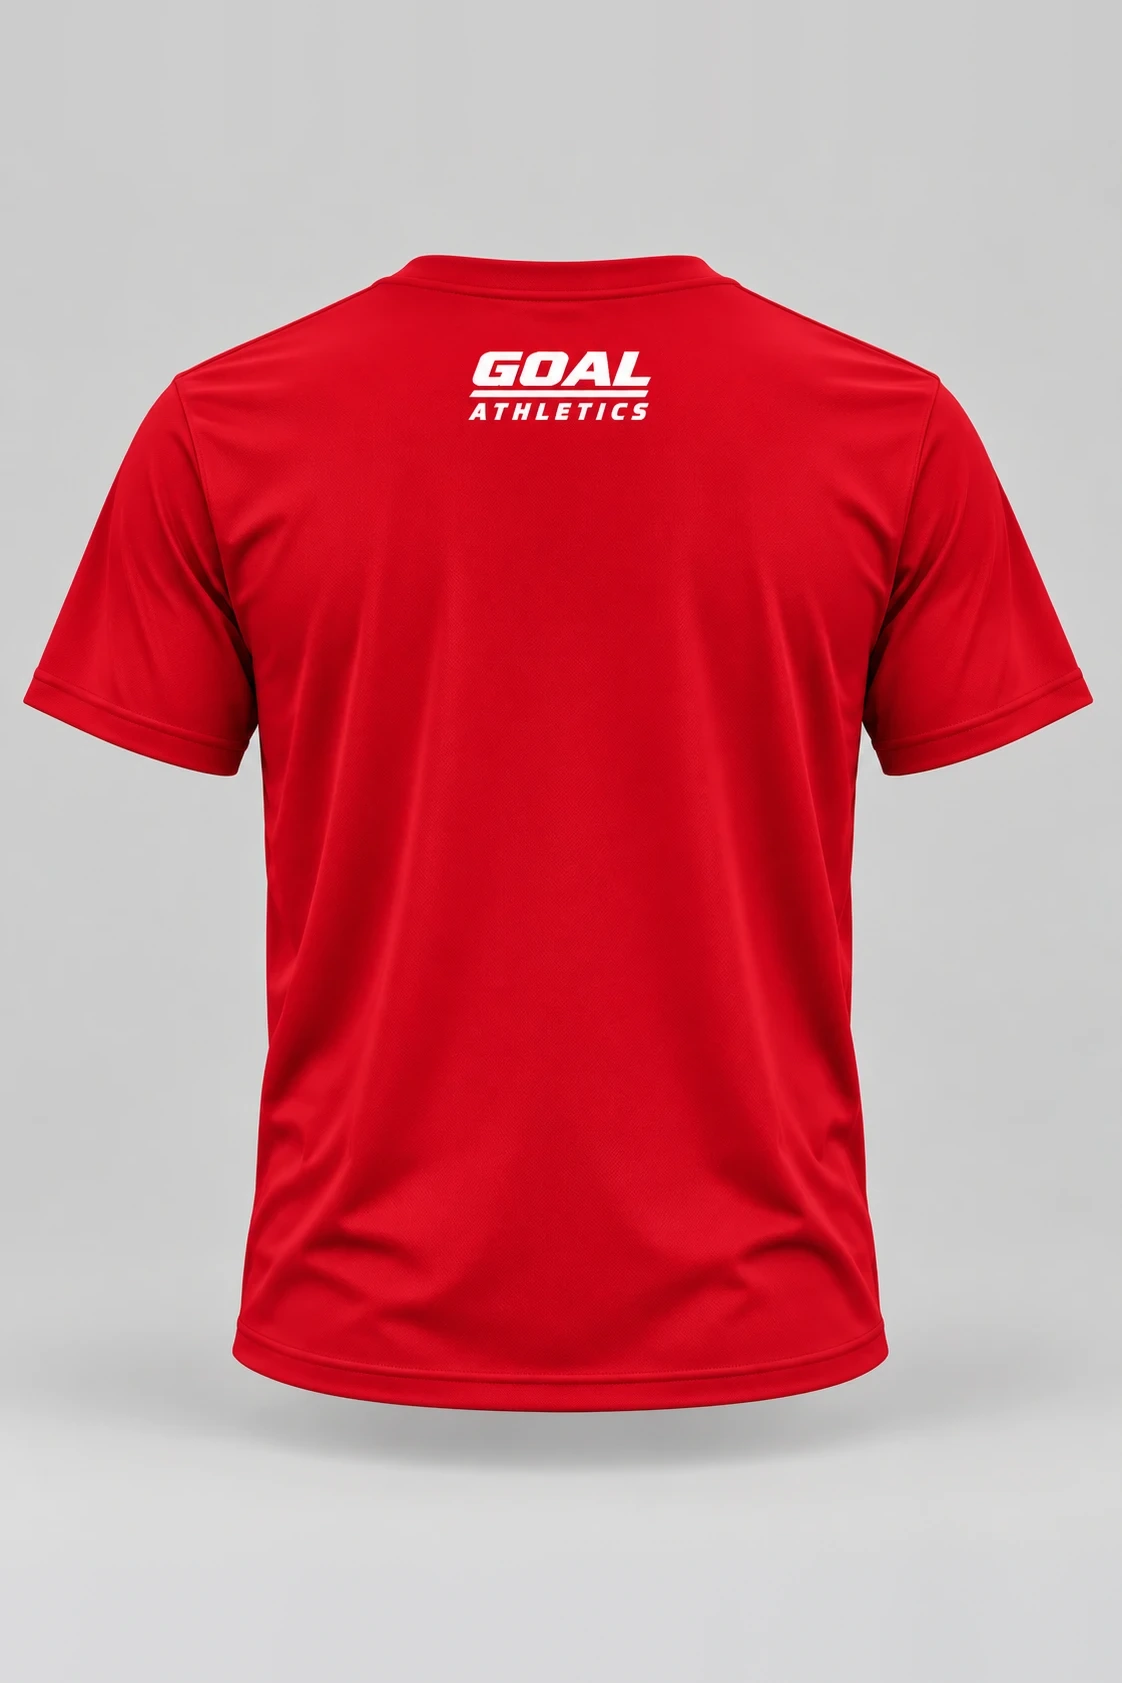
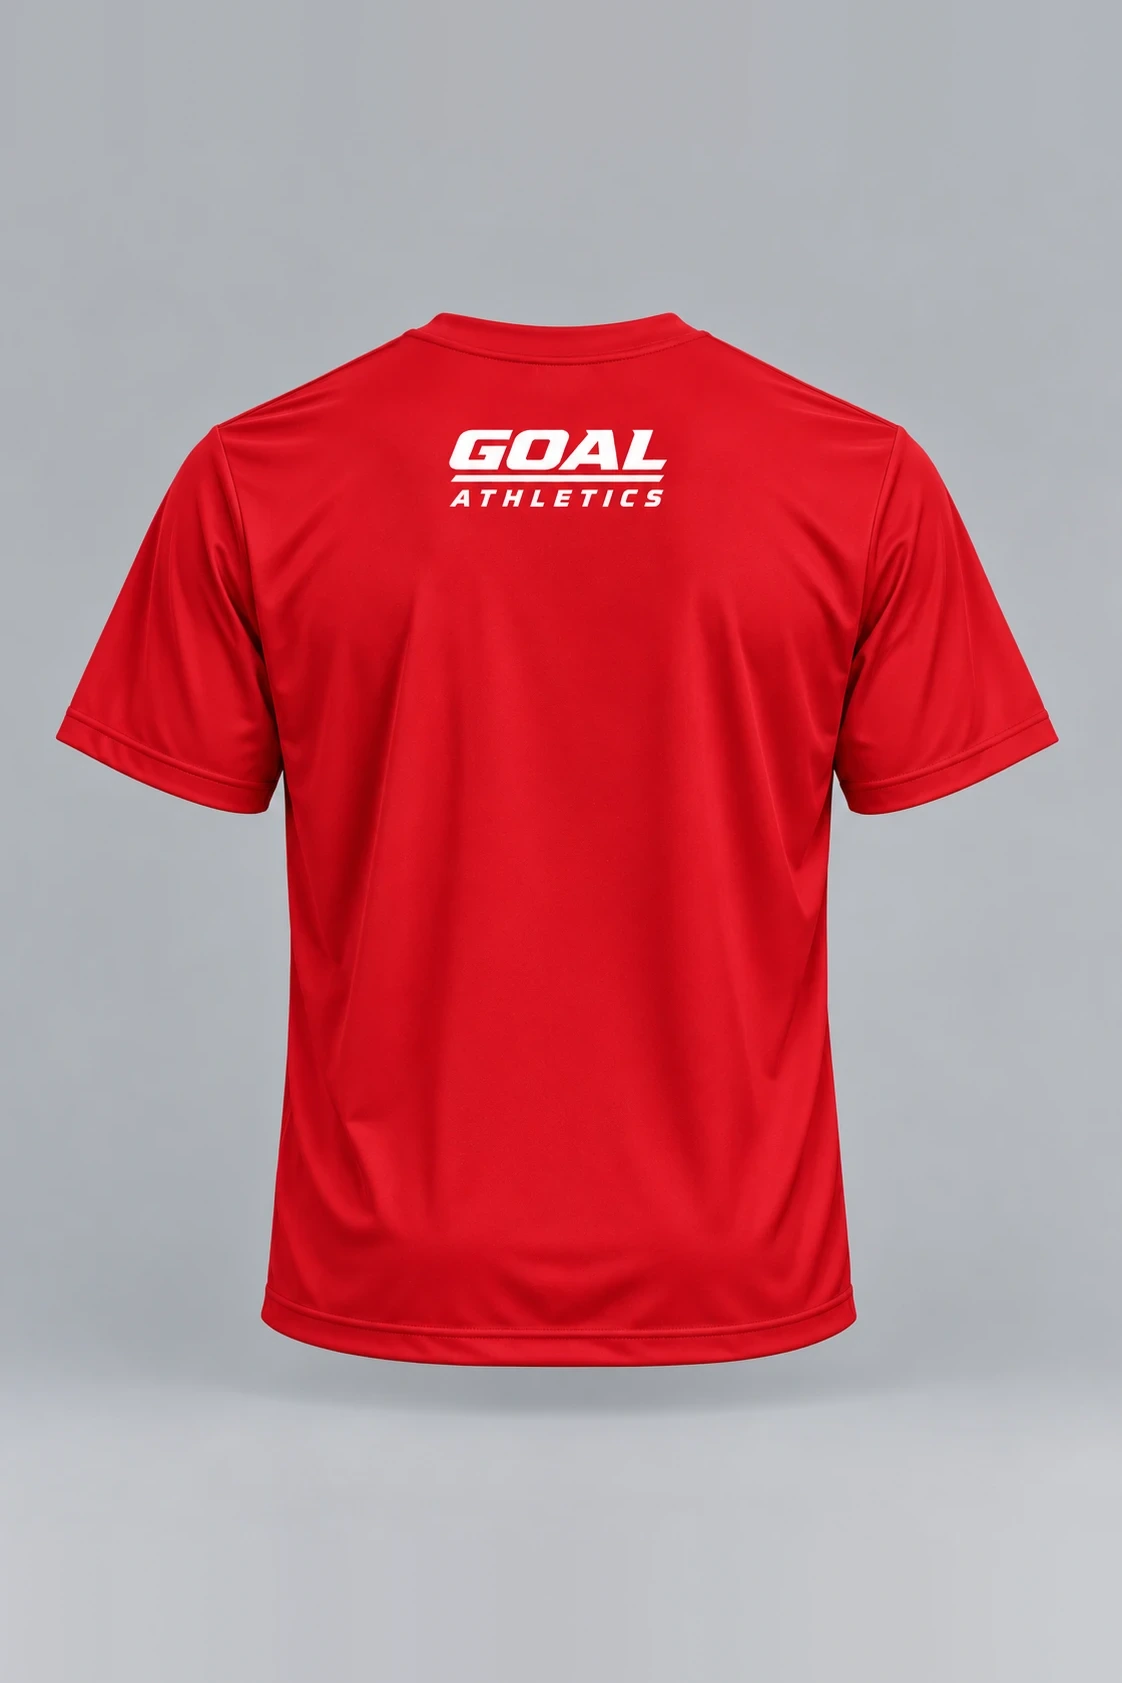
Replace the True Red GA Minimal Tee product back
Owner instruction on 2026-10-22, after the first set had gone live: the
first 1122 x 1402 back gives way to another 1122 x 1402 shot on a
slightly cooler grey, framed the same way (backdrop extended 140/141 px
above and below to 2:3, joins 0.00 and 0.03). The first original is kept
in the designs record as SUPERSEDED; checksums updated in docs/catalog/
ga-minimal-tee-true-red-product-20261022.json.

The path is reused and had been published, so product-image.ts tags it
with revision true-red-back-v2-20261022.

Verified: tsc clean; on a fresh dev server the tagged URL serves the new
source (optimizer output matches it to under one level) and the
gallery's second view decodes it.

Claude-Session: https://claude.ai/code/session_01C3SU2v6BEZ4vVY2to31FRS

diff --git a/src/lib/product-image.ts b/src/lib/product-image.ts
@@ -11,14 +11,15 @@ export function catalogImageSrc(src: string): string {
   if (studioPath) url.pathname = studioPath;
   const isRevisedBack = /^\/products\/GOOOL_MODERN_PERFORMANCE_(?:ROYAL_|WHITE_)?BACK_DETAIL_V6\.png$/.test(url.pathname);
   // Minimal Tee product shots replaced at their paths later on 2026-10-22
-  // (the True Royal back for white lettering; the True Royal front and
-  // both Black shots after they had gone live); the tags keep every image
-  // cache from serving the first files.
+  // (the True Royal back for white lettering; the True Royal front, both
+  // Black shots and the True Red back after they had gone live); the tags
+  // keep every image cache from serving the first files.
   const replaced: Record<string, string> = {
     "/products/goal-ga-minimal-true-royal-catalog-product-back-20261022.webp": "true-royal-back-white-20261022",
     "/products/goal-ga-minimal-true-royal-catalog-product-front-20261022.webp": "true-royal-front-v2-20261022",
     "/products/goal-ga-minimal-black-catalog-product-front-20261022.webp": "black-front-v2-20261022",
     "/products/goal-ga-minimal-black-catalog-product-back-20261022.webp": "black-back-v2-20261022",
+    "/products/goal-ga-minimal-true-red-catalog-product-back-20261022.webp": "true-red-back-v2-20261022",
   };
   const revision = replaced[url.pathname]
     ? replaced[url.pathname]

diff --git a/designs/00_asset-library/MODEL-PHOTO-FRAME-STANDARD.md b/designs/00_asset-library/MODEL-PHOTO-FRAME-STANDARD.md
@@ -87,7 +87,7 @@ photos are uploaded.
 | Stacked Stadium Cap Red · model front, three-quarter, side | 764 x 506/510 (landscape) | 480 x 720, sides trimmed to 480, extended 211-218 px above the head (joins 0.0, 0.0, 0.42) |
 | GA Minimal Tee Black · product front, back | 1024 x 1536 (soft grey; both replaced later the same day, the first pair 1200 x 1500 on flat #F2F2F2) | 1024 x 1536 unchanged (already 2:3) |
 | GA Minimal Tee True Royal · product front, back | 1024 x 1536, 1122 x 1402 (soft grey backdrop; both replaced later the same day) | 1024 x 1536 unchanged (already 2:3); 1122 x 1683, backdrop extended above and below (joins 0.50 and 0.00) |
-| GA Minimal Tee True Red · product front, back | 1122 x 1402 (soft grey backdrop) | 1122 x 1683, backdrop extended 140/141 px above and below (joins 0.00, 0.30) |
+| GA Minimal Tee True Red · product front, back | 1122 x 1402 (soft grey backdrop; the back replaced later the same day) | 1122 x 1683, backdrop extended 140/141 px above and below (joins 0.00; 0.00 and 0.03) |
 
 Records: `docs/catalog/ga-minimal-shorts-{shadow,ink-blue,black}-20261022.json`,
 `docs/catalog/ga-matchday-cap-{black,red,royal,dark-green}-20261022.json`,

diff --git a/designs/55_ga-minimal-tee-true-red-product-shots-2026-10-22/README.md b/designs/55_ga-minimal-tee-true-red-product-shots-2026-10-22/README.md
@@ -14,7 +14,14 @@ with `scripts/frame-model-photo-2x3.py`.
 | View | Received | Deployed |
 |---|---|---|
 | product-front | 1122 x 1402 | `goal-ga-minimal-true-red-catalog-product-front-20261022.webp`, 1122 x 1683 (joins 0.00) |
-| product-back | 1122 x 1402 | `goal-ga-minimal-true-red-catalog-product-back-20261022.webp`, 1122 x 1683 (joins 0.30 and 0.00) |
+| product-back | 1122 x 1402 | `goal-ga-minimal-true-red-catalog-product-back-20261022.webp`, 1122 x 1683 (joins 0.00 and 0.03; replaced later the same day) |
+
+The back was replaced after the first set had gone live on 2026-10-22:
+the first 1122 x 1402 shot gave way to another 1122 x 1402 shot on a
+slightly cooler grey, framed the same way. The first is kept as
+`as-received/true-red-product-back-SUPERSEDED-as-received.webp`; the path is
+reused with revision tag `true-red-back-v2-20261022` in
+`src/lib/product-image.ts`, because the first file had been published.
 
 The Apliiq renders `goal-ga-minimal-tee-true-red-front.webp` and
 `-back.webp` (not used by the True Red gallery since the model photos
